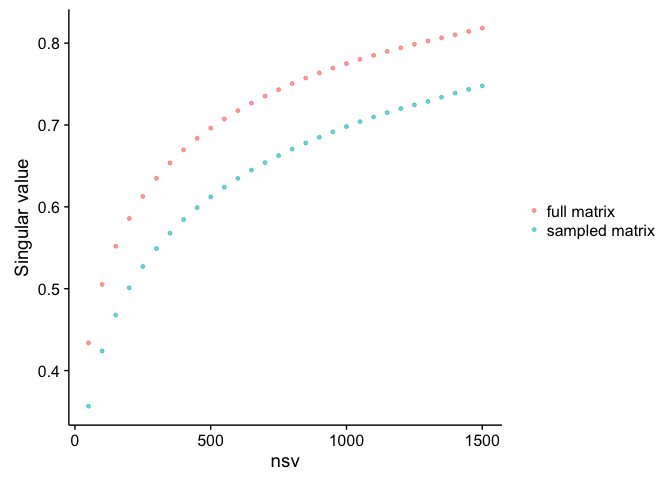
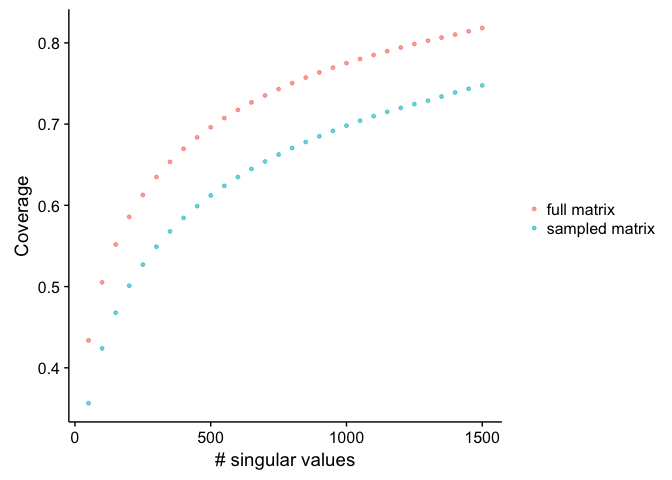
Change graphs

diff --git a/Graph_Sparsification/Result/big_matrix_sampling_tf/big_matrix_sampling_tf.md b/Graph_Sparsification/Result/big_matrix_sampling_tf/big_matrix_sampling_tf.md
@@ -81,7 +81,7 @@ coverage_full <- read.table("tf_nsv_2000_coverage.txt", header=TRUE)
 coverage_sampled$matrix <- factor("sampled matrix")
 coverage_full$matrix <- factor("full matrix")
 all <- rbind(coverage_full, coverage_sampled)
-ggplot(all, aes(x = nsv, y = coverage, color=matrix)) + geom_point(size=1, alpha=0.6) + ylab("Singular value") + xlab("nsv") + theme(legend.title=element_blank())
+ggplot(all, aes(x = nsv, y = coverage, color=matrix)) + geom_point(size=1, alpha=0.6) + ylab("Coverage") + xlab("# singular values") + theme(legend.title=element_blank())
 ```
 
 ![](big_matrix_sampling_tf_files/figure-markdown_github/coverage-1.png)

diff --git a/PubMed_100_Random_Papers/Results/Multiple_Instances_top10/analysis_top10.md b/PubMed_100_Random_Papers/Results/Multiple_Instances_top10/analysis_top10.md
@@ -263,7 +263,7 @@ This is to see how long the calculation takes. So it looks like using cosine fun
 
 ```r
 ggplot(all_result_means, aes(x=nsv, y=meanTime, colour=distFunc)) + geom_point() + facet_grid(matrixType ~ .) + 
-  labs(x="number of singular values", y="average time")  + scale_colour_brewer(palette="Set2") + theme(legend.title=element_blank())
+  labs(x="number of singular values", y="average time (seconds)")  + scale_colour_brewer(palette="Set2") + theme(legend.title=element_blank())
 ```
 
 ![](analysis_top10_files/figure-html/unnamed-chunk-12-1.png)<!-- -->
